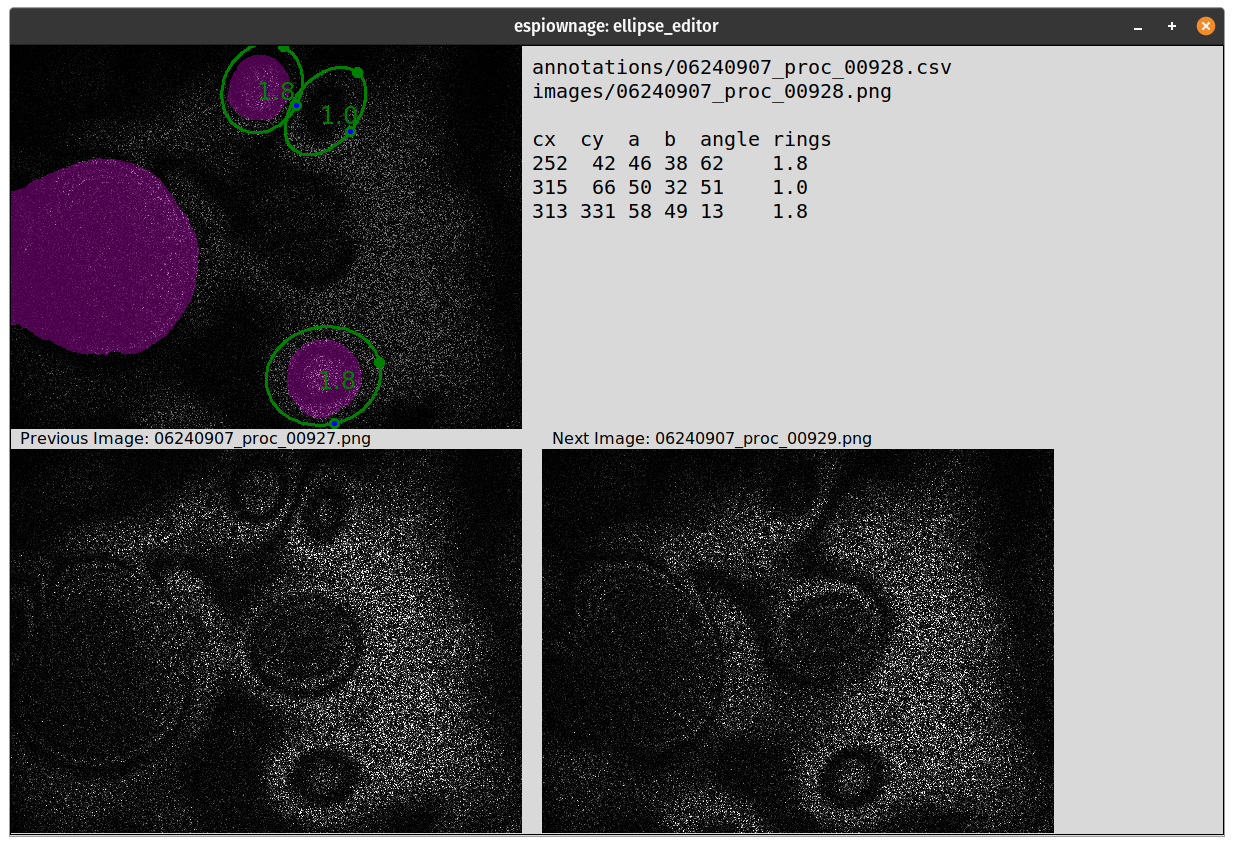
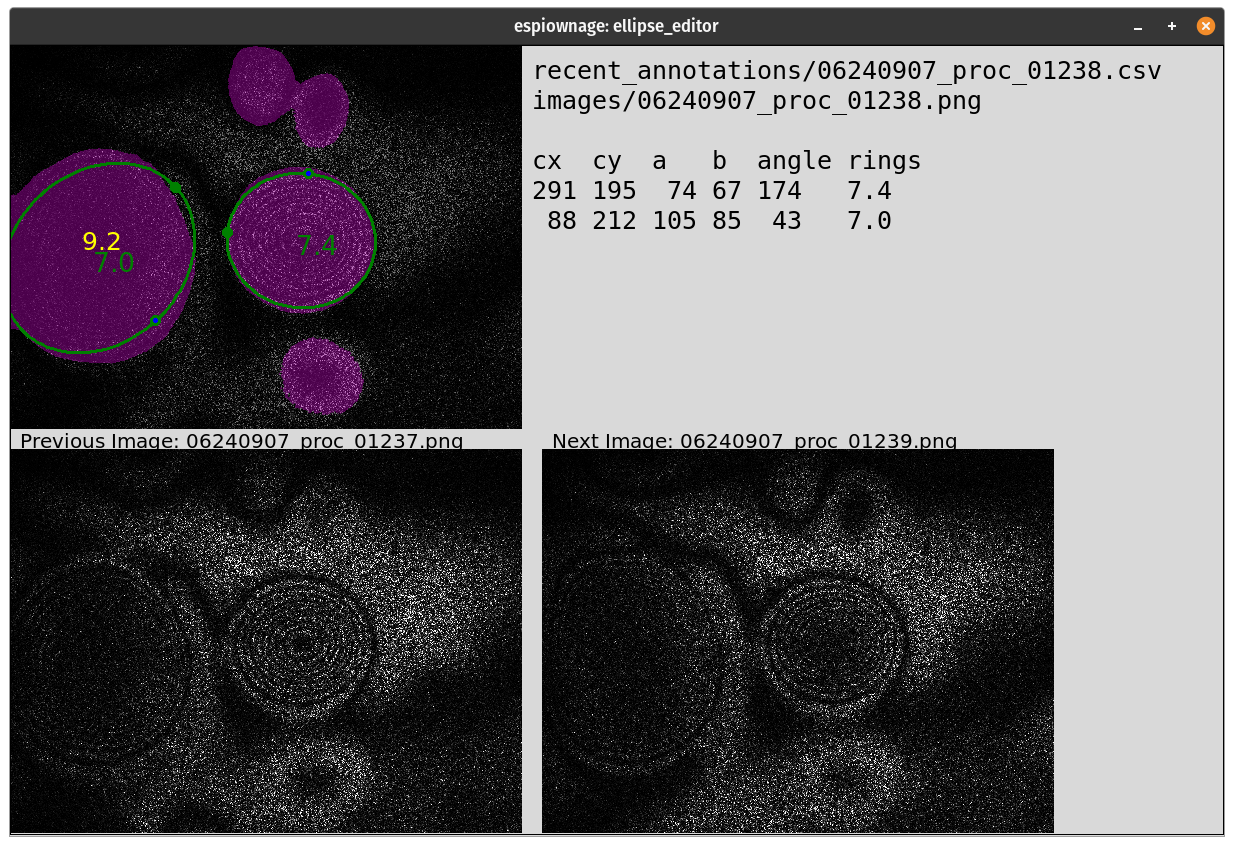
added ring number image

Changed region(s): [[0.0, 0.0307, 0.9546, 0.9835], [0.0, 0.3688, 0.0308, 0.3995]]

diff --git a/docs/script_doc.html b/docs/script_doc.html
@@ -54,7 +54,7 @@ nb_path: "nbs/01_script_doc.ipynb"
 
 
 <div class="output_markdown rendered_html output_subarea ">
-<h4 id="ellipse_editor" class="doc_header"><code>ellipse_editor</code><a href="https://github.com/drscotthawley/espiownage/tree/master/espiownage/ellipse_editor.py#L474" class="source_link" style="float:right">[source]</a></h4><blockquote><p><code>ellipse_editor</code>(<strong><code>seq</code></strong>:"Ignore top-loss ordering and do sequential ordering", <strong><code>files</code></strong>:"Wildcard name for all CSV files to edit"=<em>`'annotations/</em>.csv'<code>*, **</code>imgbank<code>**:"Directory where all the (unlabeled) images are"=*</code>'images/'<code>*, **</code>tl<code>**:"Directory where 'top losses' info is stored'"=*</code>'top_losses/'`*)</p>
+<h4 id="ellipse_editor" class="doc_header"><code>ellipse_editor</code><a href="https://github.com/drscotthawley/espiownage/tree/master/espiownage/ellipse_editor.py#L514" class="source_link" style="float:right">[source]</a></h4><blockquote><p><code>ellipse_editor</code>(<strong><code>seq</code></strong>:"Ignore top-loss ordering and do sequential ordering", <strong><code>files</code></strong>:"Wildcard name for all CSV files to edit"=<em>`'annotations/</em>.csv'<code>*, **</code>imgbank<code>**:"Directory where all the (unlabeled) images are"=*</code>'images/'<code>*, **</code>tldir<code>**:"Directory where 'top losses' info is stored'"=*</code>'top_losses/'`*)</p>
 </blockquote>
 <p><strong>Parameters:</strong></p>
 <ul>
@@ -64,7 +64,7 @@ nb_path: "nbs/01_script_doc.ipynb"
 </li>
 <li><p><strong><code>imgbank</code></strong> : <em><code>str &lt;Directory where all the (unlabeled) images are&gt;</code></em>, <em>optional</em></p>
 </li>
-<li><p><strong><code>tl</code></strong> : <em><code>str &lt;Directory where 'top losses' info is stored'&gt;</code></em>, <em>optional</em></p>
+<li><p><strong><code>tldir</code></strong> : <em><code>str &lt;Directory where 'top losses' info is stored'&gt;</code></em>, <em>optional</em></p>
 </li>
 </ul>
 
@@ -80,7 +80,7 @@ nb_path: "nbs/01_script_doc.ipynb"
 
 <div class="cell border-box-sizing text_cell rendered"><div class="inner_cell">
 <div class="text_cell_render border-box-sizing rendered_html">
-<p>When available, the ellipse editor will show model predictions, such as segmentations masks (in purple):
+<p>When available, the ellipse editor will show model predictions ("top losses") such as segmentations masks (in purple) and ring counts (in yellow), to indicate differences between annotations and the model's predictions.  This can be used to guide the user's attention to annotations that may need revising, and/or as a gauge of the model's performaance.
 <img src="/espiownage/images/ellipse_editor_with_seg_masks.png" alt="ellipse editor with seg masks"></p>
 
 </div>
